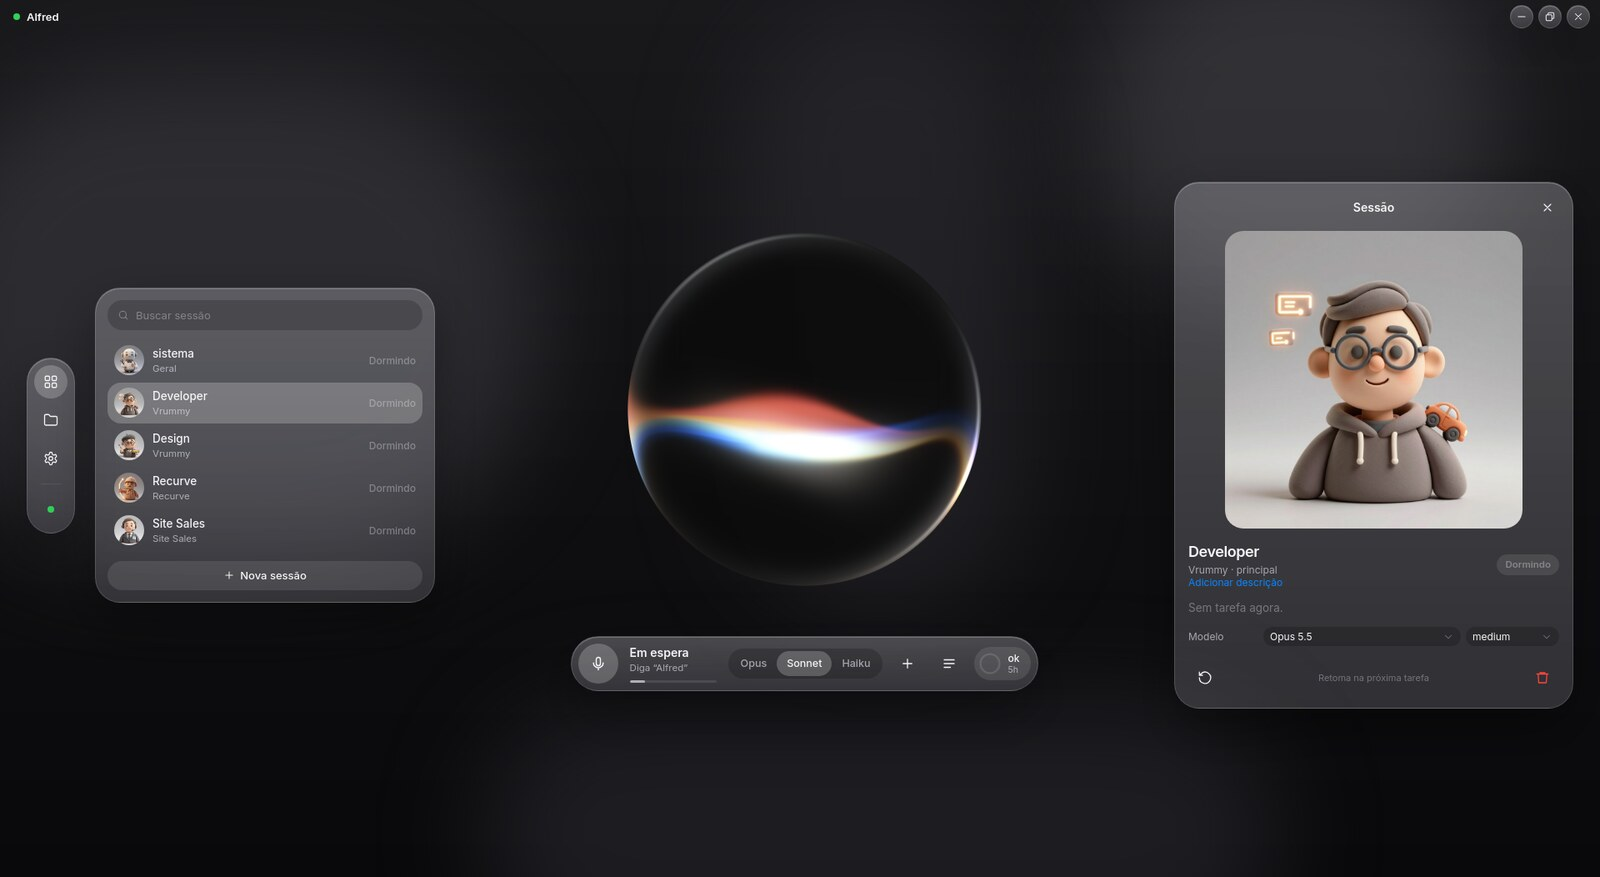
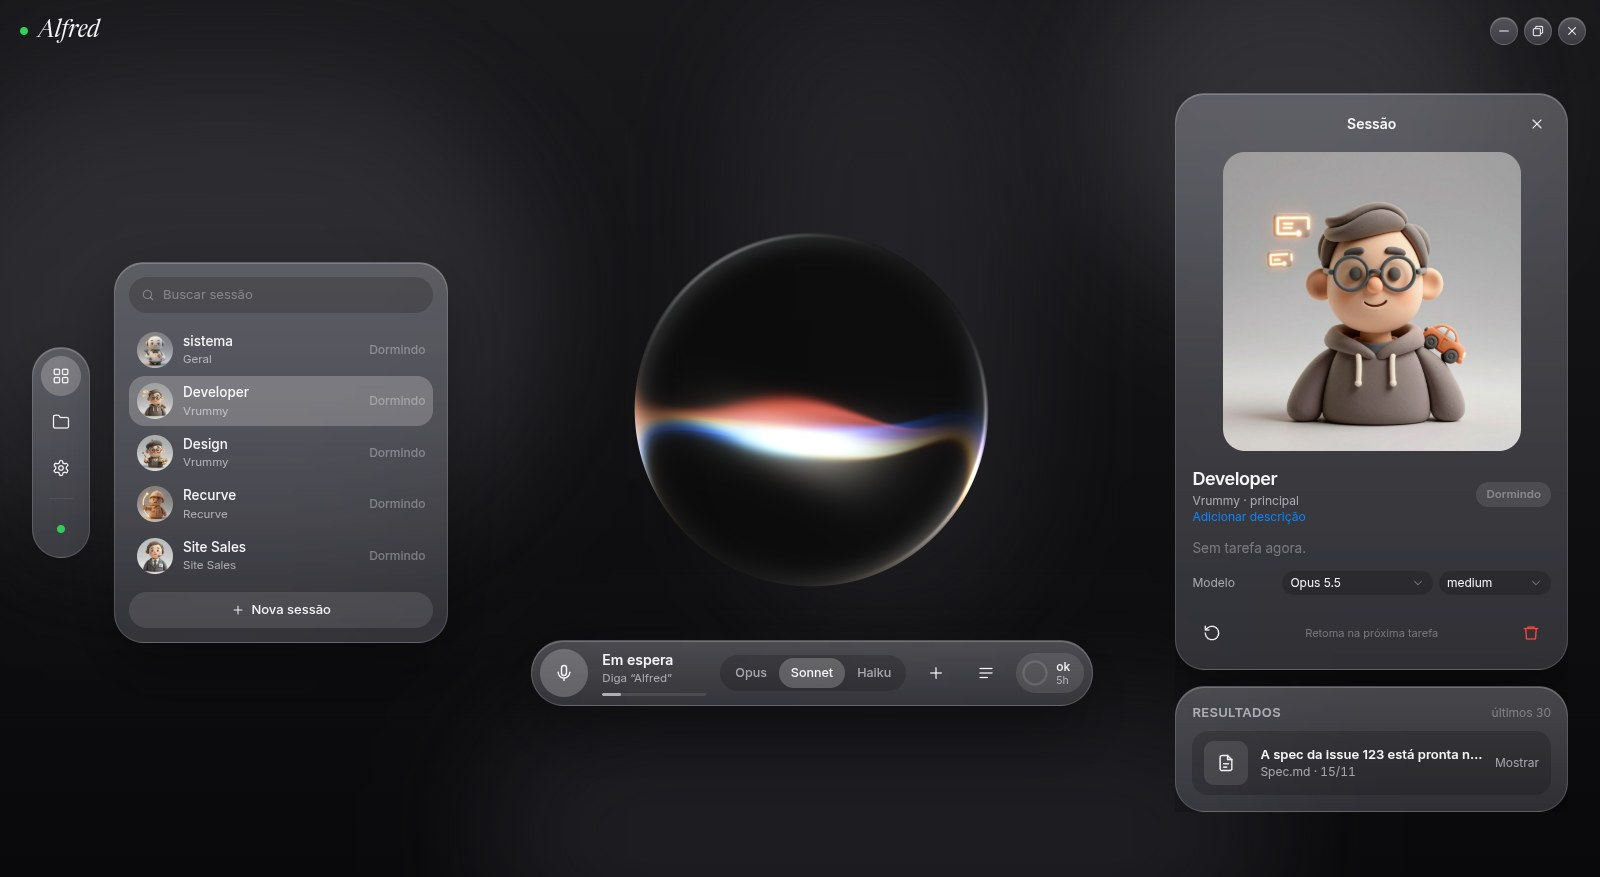
docs(readme): present results and refresh the screenshots
Adds a Presentations section and feature, a voice example and the
expanded view screenshot; the other screenshots show the bigger title
and the session's results.

diff --git a/README.md b/README.md
@@ -19,6 +19,7 @@ Alfred listens in Brazilian Portuguese:
 "Alfred, backend: cria o endpoint de cancelamento"
 "Alfred, tenho e-mail importante hoje?"
 "Alfred, manda o backend fazer a tarefa de reembolso"
+"Alfred, me mostra o que o Design fez"
 ```
 
 ## Features
@@ -27,6 +28,7 @@ Alfred listens in Brazilian Portuguese:
 - 🧠 **One entry point:** the same Alfred answers questions, searches the web and reads mail, calendar, files and GitHub issues.
 - 🧑💻 **Claude Code sessions by voice:** named sessions in parallel, each tied to a project and a workspace (git worktree); delegate with "tell the backend to…".
 - 🌿 **Projects and worktrees:** workspaces mirror your worktrees; one sentence opens a branch, a worktree and a session.
+- 🖼 **Presentations:** when a session finishes, its result (report, Markdown, PDF, images, video, pages) pops up in a corner card; say "me mostra" and Alfred opens it full size, with several files in one go.
 - 🔒 **Safe by default:** the main agent has no shell or edit tools; voice stays 100% local, reasoning runs in the cloud.
 - 🪟 **Panel and desktop app:** glass panel with a 3D orb that reacts to the voice, plan usage as rings, and a Tauri app with a tray and a floating voice pill.
 
@@ -34,13 +36,26 @@ Alfred listens in Brazilian Portuguese:
 
 <table>
   <tr>
-    <td width="50%"><img src="docs/assets/session.jpg" alt="Session card with portrait, model and effort"><br><sub><b>Session:</b> portrait, workspace, model and effort</sub></td>
+    <td width="50%"><img src="docs/assets/session.jpg" alt="Session card with portrait, model, effort and results"><br><sub><b>Session:</b> portrait, workspace, model, effort and its results</sub></td>
     <td width="50%"><img src="docs/assets/projects.jpg" alt="Projects with their workspaces and sessions"><br><sub><b>Projects:</b> workspaces and sessions of each one</sub></td>
+  </tr>
+  <tr>
+    <td colspan="2"><img src="docs/assets/presentation.jpg" alt="Expanded view presenting a session's Markdown result, with the files to switch between"><br><sub><b>Presentation:</b> a session's result full size; switch files with the arrows or the bottom bar</sub></td>
   </tr>
   <tr>
     <td colspan="2"><img src="docs/assets/settings.jpg" alt="Settings with plan usage and limits"><br><sub><b>Settings:</b> plan usage and limits, models, open sessions and MCPs</sub></td>
   </tr>
 </table>
+
+## Presentations
+
+Every Claude Code session can hand over what it made when a task ends: a short report plus the files worth seeing. Alfred shows it without getting in the way, then opens it big when you ask.
+
+- **Corner card:** the floating voice pill turns into a small preview of the result; click it to expand. It leaves on its own.
+- **Expanded view:** a separate window at 70% of the screen with the report and each file (Markdown, PDF, images, video, text, HTML), "Abrir no app" and "Pasta" buttons, and arrows (or ← →) to move between files.
+- **By voice:** "me mostra o que o Design fez" opens a session's latest result; "apresenta o PDF do relatório" finds the files and opens them together; "pode fechar" closes it.
+- **History:** each session keeps its last 30 results in the panel; "Mostrar" opens any of them again.
+- **Local only:** result files are served to this computer only, and the card follows the position chosen in Settings → Geral.
 
 ## How it works
 
